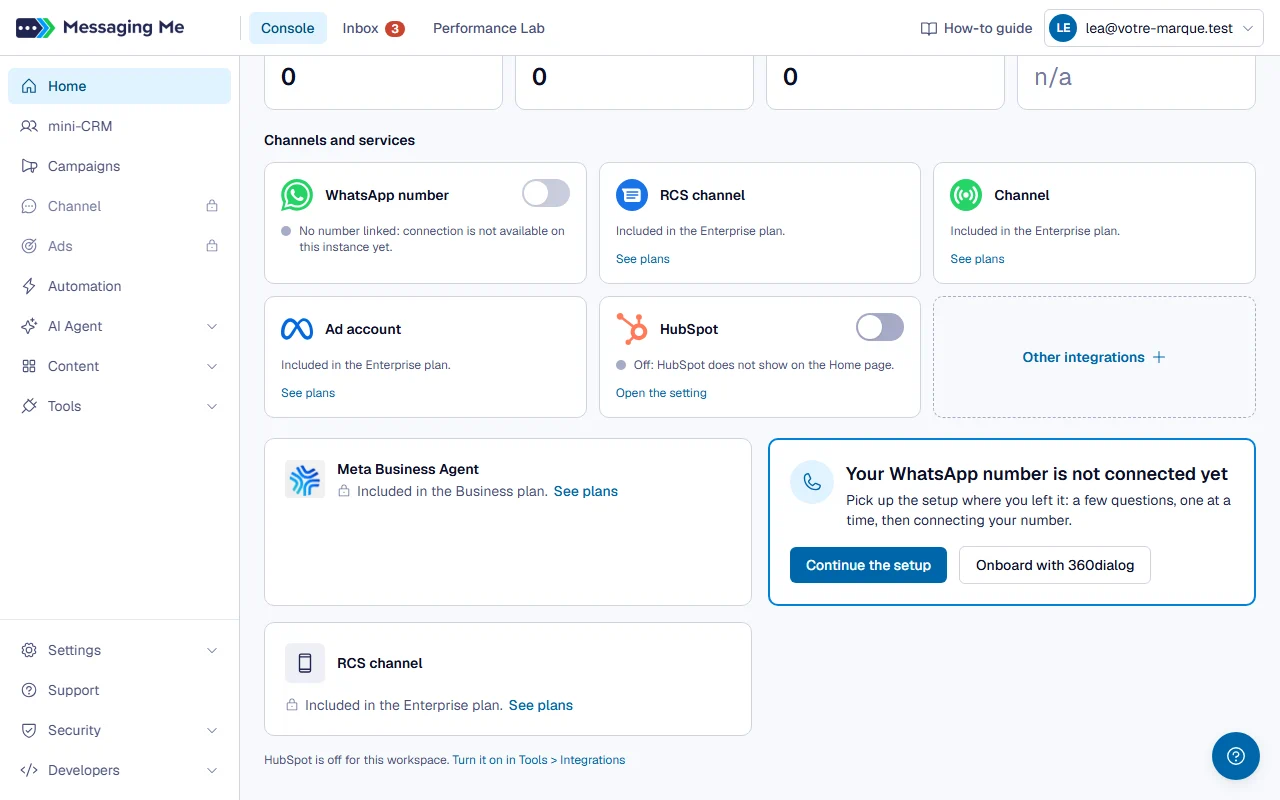
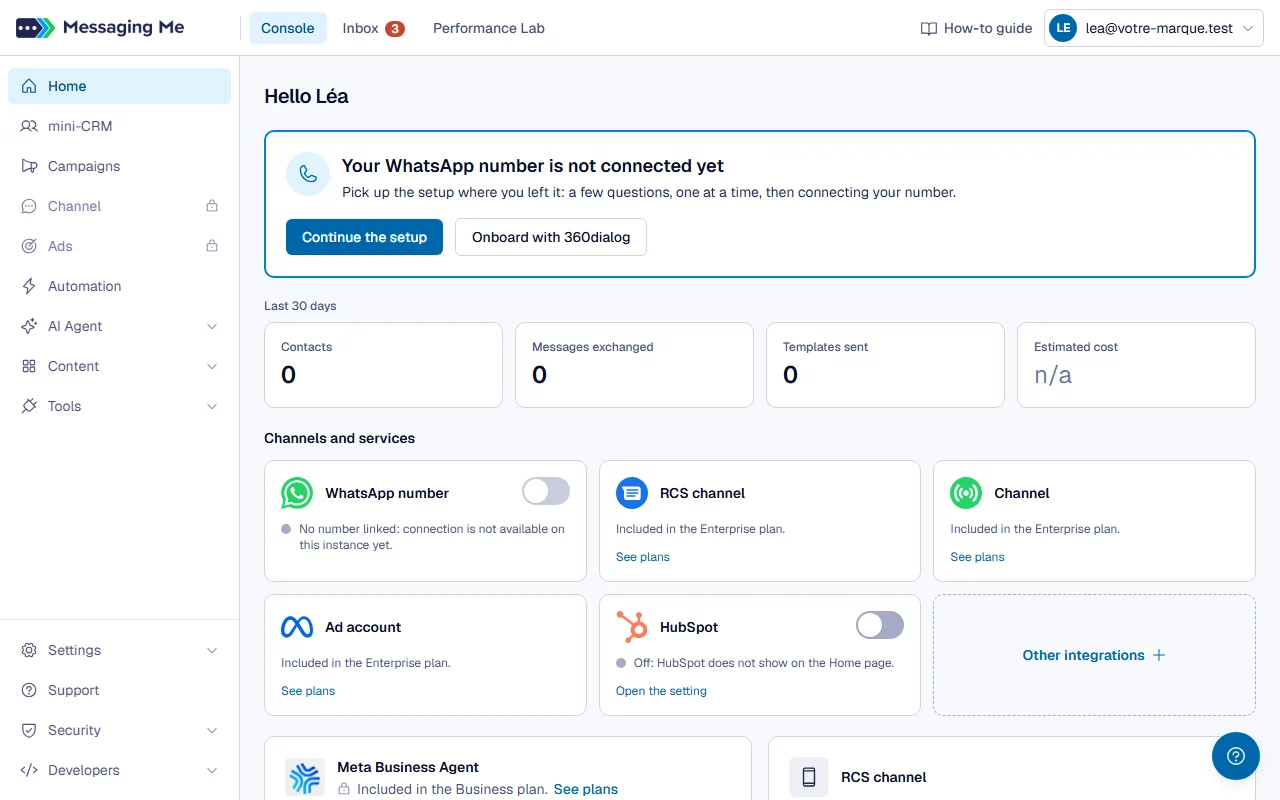
fix(accueil): sans numéro, la carte « Continuer la mise en service » passe en tête de page
Elle attendait sous Canaux et services, à la place de la carte du numéro : elle vient
juste sous le titre, avant les chiffres et les canaux, avec les avis de déconnexion et
les avertissements de connexion qui l'accompagnent. La capture de l'étape 1 du numéro
fourni (voie console) est recadrée sur elle.

diff --git a/web/app/accueil/page.tsx b/web/app/accueil/page.tsx
@@ -562,6 +562,39 @@ function AccueilInner({ session }: { session: Session }) {
 
       {error && <p className="rounded-controle bg-danger-50 px-3 py-2 text-sm text-danger-700">{error}</p>}
 
+      {/* SANS NUMÉRO, LA MISE EN SERVICE EN TÊTE (Julien, 2026-11-17) : la carte qui la reprend passe avant tout le
+          reste, au lieu d'attendre sous Canaux et services. Seulement une fois le compte lu ET sans numéro (l'invariant
+          de la cascade du numéro, plus bas). */}
+      {!accountLoading && !accountError && account && !account.hasNumber && (
+        <div data-testid="accueil-sans-numero">
+          {numeroDeconnecte && (
+            <p data-testid="numero-deconnecte" className="mb-3 rounded-controle bg-succes-50 px-3 py-2 text-xs text-succes-700">
+              {t(
+                `Numéro déconnecté : ${numeroDeconnecte.conversations} conversation(s) effacée(s), ${numeroDeconnecte.campagnesArretees} campagne(s) arrêtée(s). L’espace peut connecter un autre numéro.`,
+                `Number disconnected: ${numeroDeconnecte.conversations} conversation(s) erased, ${numeroDeconnecte.campagnesArretees} campaign(s) stopped. The workspace can connect another number.`,
+              )}
+            </p>
+          )}
+          {numeroDeconnecte && numeroDeconnecte.echecsMeta > 0 && (
+            <p data-testid="numero-deconnecte-meta" className="mb-3 rounded-controle bg-alerte-50 px-3 py-2 text-xs text-alerte-700">
+              {t(
+                'Meta n’a pas tout accepté : l’agent de Meta peut encore répondre sur ce numéro, ou Messaging Me rester abonné à votre compte. Notre équipe est prévenue et termine chez Meta ; vous pouvez aussi retirer l’app dans le Business Manager de Meta.',
+                'Meta did not accept everything: Meta’s agent may still answer on this number, or Messaging Me may stay subscribed to your account. Our team is notified and will finish at Meta; you can also remove the app in Meta’s Business Manager.',
+              )}
+            </p>
+          )}
+          <ReprendreMiseEnService isAdmin={isAdmin} tenantId={session.tenantId} onConnecte360={recharger360} />
+          {/* 🔴 Le compte peut revenir de la fenêtre Meta SANS numéro (lot 3b) : l'espace n'a toujours pas de
+              numéro, donc c'est cette branche qui s'affiche, et l'avertissement qui dit quoi faire doit y être.
+              Sans lui, la fenêtre se fermait sans un mot. Titre neutre : rien n'est « connecté ». */}
+          {avertissementsConnexion.length > 0 && (
+            <div data-testid="avertissements-connexion" className="mt-3 rounded-controle bg-alerte-50 px-3 py-2 text-xs text-alerte-700">
+              {t('À savoir', 'Note')} : {avertissementsConnexion.join(' · ')}
+            </div>
+          )}
+        </div>
+      )}
+
       {/* Rangée de KPIs (30 derniers jours) : mêmes chiffres que la page Analytics. Pas en Free : elle n'a pas de statistiques. */}
       {consoleOuverte && (
       <div>
@@ -691,33 +724,8 @@ function AccueilInner({ session }: { session: Session }) {
               </Bouton>
             </div>
           ) : account && !account.hasNumber ? (
-            <>
-              {numeroDeconnecte && (
-                <p data-testid="numero-deconnecte" className="mb-3 rounded-controle bg-succes-50 px-3 py-2 text-xs text-succes-700">
-                  {t(
-                    `Numéro déconnecté : ${numeroDeconnecte.conversations} conversation(s) effacée(s), ${numeroDeconnecte.campagnesArretees} campagne(s) arrêtée(s). L’espace peut connecter un autre numéro.`,
-                    `Number disconnected: ${numeroDeconnecte.conversations} conversation(s) erased, ${numeroDeconnecte.campagnesArretees} campaign(s) stopped. The workspace can connect another number.`,
-                  )}
-                </p>
-              )}
-              {numeroDeconnecte && numeroDeconnecte.echecsMeta > 0 && (
-                <p data-testid="numero-deconnecte-meta" className="mb-3 rounded-controle bg-alerte-50 px-3 py-2 text-xs text-alerte-700">
-                  {t(
-                    'Meta n’a pas tout accepté : l’agent de Meta peut encore répondre sur ce numéro, ou Messaging Me rester abonné à votre compte. Notre équipe est prévenue et termine chez Meta ; vous pouvez aussi retirer l’app dans le Business Manager de Meta.',
-                    'Meta did not accept everything: Meta’s agent may still answer on this number, or Messaging Me may stay subscribed to your account. Our team is notified and will finish at Meta; you can also remove the app in Meta’s Business Manager.',
-                  )}
-                </p>
-              )}
-              <ReprendreMiseEnService isAdmin={isAdmin} tenantId={session.tenantId} onConnecte360={recharger360} />
-              {/* 🔴 Le compte peut revenir de la fenêtre Meta SANS numéro (lot 3b) : l'espace n'a toujours pas de
-                  numéro, donc c'est cette branche qui s'affiche, et l'avertissement qui dit quoi faire doit y être.
-                  Sans lui, la fenêtre se fermait sans un mot. Titre neutre : rien n'est « connecté ». */}
-              {avertissementsConnexion.length > 0 && (
-                <div data-testid="avertissements-connexion" className="mt-3 rounded-controle bg-alerte-50 px-3 py-2 text-xs text-alerte-700">
-                  {t('À savoir', 'Note')} : {avertissementsConnexion.join(' · ')}
-                </div>
-              )}
-            </>
+            // Sans numéro, la carte de la mise en service est en tête de page (`accueil-sans-numero`).
+            null
           ) : (
             <div data-testid="numero-card" className="rounded-carte border border-ink-200 bg-white p-5">
               <div className="mb-3 flex items-center justify-between">

diff --git a/site/aide/numero-fourni-par-messaging-me/index.html b/site/aide/numero-fourni-par-messaging-me/index.html
@@ -361,7 +361,7 @@
         <figcaption>Vidéo de 2 min 59, sous-titrée, sans son.</figcaption>
       </figure>
       <div class="aide-etape" id="etape-1" data-voie="claude"><div><h3>1. Lancer la mise en service</h3><p>Dans Claude Code, tapez «&nbsp;/messagingme:demarrer&nbsp;»&nbsp;: Claude fait le point sur votre espace et commence par votre numéro WhatsApp.</p></div><a class="aide-capture" href="/img/aide/numero-fourni-par-messaging-me/etape-1.webp?v=b173bdaa" title="Voir la capture en grand"><img src="/img/aide/numero-fourni-par-messaging-me/etape-1.webp?v=b173bdaa" alt="Étape 1 : Lancer la mise en service" width="1280" height="800" loading="lazy"></a></div>
-      <div class="aide-etape" id="etape-1-console" data-voie="console"><div><h3>1. Ouvrir «&nbsp;Connecter WhatsApp&nbsp;»</h3><p>Sur l'Accueil, tant qu'aucun numéro n'est rattaché, cliquez sur «&nbsp;Continuer la mise en service&nbsp;».</p></div><a class="aide-capture" href="/img/aide/numero-fourni-par-messaging-me/etape-1-console.webp?v=897e3f37" title="Voir la capture en grand"><img src="/img/aide/numero-fourni-par-messaging-me/etape-1-console.webp?v=897e3f37" alt="Étape 1 : Ouvrir « Connecter WhatsApp »" width="1280" height="800" loading="lazy"></a></div>
+      <div class="aide-etape" id="etape-1-console" data-voie="console"><div><h3>1. Ouvrir «&nbsp;Connecter WhatsApp&nbsp;»</h3><p>Sur l'Accueil, tant qu'aucun numéro n'est rattaché, cliquez sur «&nbsp;Continuer la mise en service&nbsp;».</p></div><a class="aide-capture" href="/img/aide/numero-fourni-par-messaging-me/etape-1-console.webp?v=a2fd3621" title="Voir la capture en grand"><img src="/img/aide/numero-fourni-par-messaging-me/etape-1-console.webp?v=a2fd3621" alt="Étape 1 : Ouvrir « Connecter WhatsApp »" width="1280" height="800" loading="lazy"></a></div>
       <div class="aide-etape" id="etape-2" data-voie="claude"><div><h3>2. Répondre aux questions de Claude</h3><p>Pas de compte Meta Business, pas d'application WhatsApp Business, pas de numéro&nbsp;: Claude vous propose un numéro fourni.</p><details class="aide-detail"><summary>En détail</summary><p>La vidéo reste sur la formule Free&nbsp;: Meta facture vos modèles sur une carte, que vous ajouterez une fois le numéro relié. Avec l'application WhatsApp Business pour un autre numéro, répondez «&nbsp;Non&nbsp;» à «&nbsp;Voulez-vous utiliser ce numéro-là&nbsp;?&nbsp;»&nbsp;: vous arrivez au même numéro fourni.</p></details></div><a class="aide-capture" href="/img/aide/numero-fourni-par-messaging-me/etape-2.webp?v=b53704c9" title="Voir la capture en grand"><img src="/img/aide/numero-fourni-par-messaging-me/etape-2.webp?v=b53704c9" alt="Étape 2 : Répondre aux questions de Claude" width="1280" height="800" loading="lazy"></a></div>
       <div class="aide-etape" id="etape-2-console" data-voie="console"><div><h3>2. Choisir «&nbsp;Fournissez-moi un numéro&nbsp;»</h3><p>Répondez aux questions de la page, puis choisissez «&nbsp;Fournissez-moi un numéro&nbsp;»&nbsp;: un numéro dédié, prêt pour WhatsApp.</p></div><a class="aide-capture" href="/img/aide/numero-fourni-par-messaging-me/etape-2-console.webp?v=1291fe47" title="Voir la capture en grand"><img src="/img/aide/numero-fourni-par-messaging-me/etape-2-console.webp?v=1291fe47" alt="Étape 2 : Choisir « Fournissez-moi un numéro »" width="1280" height="800" loading="lazy"></a></div>
       <div class="aide-etape" id="etape-3"><div><h3>3. Payer le numéro, puis ouvrir la fenêtre de Meta</h3><p>Sur la page «&nbsp;Connecter WhatsApp&nbsp;», payez 3,50 € par mois (en formule Pro, «&nbsp;Obtenir mon numéro&nbsp;», sans rien payer)&nbsp;: votre numéro britannique s'affiche. Cliquez sur «&nbsp;Ouvrir la fenêtre de Meta&nbsp;».</p><details class="aide-detail"><summary>En détail</summary><p>Gardez la page ouverte jusqu'au bout&nbsp;: le code de vérification s'y affichera. Depuis Claude Code, Claude vous donne le lien de cette page&nbsp;; il vaut une heure, et passé ce délai Claude en donne un neuf.</p></details></div><a class="aide-capture" href="/img/aide/numero-fourni-par-messaging-me/etape-3.webp?v=e374f0e5" title="Voir la capture en grand"><img src="/img/aide/numero-fourni-par-messaging-me/etape-3.webp?v=e374f0e5" alt="Étape 3 : Payer le numéro, puis ouvrir la fenêtre de Meta" width="1280" height="800" loading="lazy"></a></div>

diff --git a/site/en/help/get-a-number-provided-by-messaging-me/index.html b/site/en/help/get-a-number-provided-by-messaging-me/index.html
@@ -361,7 +361,7 @@
         <figcaption>2 min 59 video, subtitled, no sound.</figcaption>
       </figure>
       <div class="aide-etape" id="etape-1" data-voie="claude"><div><h3>1. Start the setup</h3><p>In Claude Code, type “/messagingme:demarrer”: Claude checks your workspace and starts with your WhatsApp number.</p></div><a class="aide-capture" href="/img/aide/numero-fourni-par-messaging-me/etape-1-en.webp?v=b173bdaa" title="View the screenshot full size"><img src="/img/aide/numero-fourni-par-messaging-me/etape-1-en.webp?v=b173bdaa" alt="Step 1: Start the setup" width="1280" height="800" loading="lazy"></a></div>
-      <div class="aide-etape" id="etape-1-console" data-voie="console"><div><h3>1. Open “Connect WhatsApp”</h3><p>On the Home screen, as long as no number is attached, click “Continue the setup”.</p></div><a class="aide-capture" href="/img/aide/numero-fourni-par-messaging-me/etape-1-console-en.webp?v=1370a836" title="View the screenshot full size"><img src="/img/aide/numero-fourni-par-messaging-me/etape-1-console-en.webp?v=1370a836" alt="Step 1: Open “Connect WhatsApp”" width="1280" height="800" loading="lazy"></a></div>
+      <div class="aide-etape" id="etape-1-console" data-voie="console"><div><h3>1. Open “Connect WhatsApp”</h3><p>On the Home screen, as long as no number is attached, click “Continue the setup”.</p></div><a class="aide-capture" href="/img/aide/numero-fourni-par-messaging-me/etape-1-console-en.webp?v=53a9e874" title="View the screenshot full size"><img src="/img/aide/numero-fourni-par-messaging-me/etape-1-console-en.webp?v=53a9e874" alt="Step 1: Open “Connect WhatsApp”" width="1280" height="800" loading="lazy"></a></div>
       <div class="aide-etape" id="etape-2" data-voie="claude"><div><h3>2. Answer Claude’s questions</h3><p>No Meta Business account, no WhatsApp Business app, no number: Claude offers you a provided number.</p><details class="aide-detail"><summary>In detail</summary><p>The video stays on the Free plan: Meta bills your templates to a card, which you add once the number is connected. With the WhatsApp Business app for another number, answer “No” to “Do you want to use that number?”: you reach the same provided number.</p></details></div><a class="aide-capture" href="/img/aide/numero-fourni-par-messaging-me/etape-2-en.webp?v=b53704c9" title="View the screenshot full size"><img src="/img/aide/numero-fourni-par-messaging-me/etape-2-en.webp?v=b53704c9" alt="Step 2: Answer Claude’s questions" width="1280" height="800" loading="lazy"></a></div>
       <div class="aide-etape" id="etape-2-console" data-voie="console"><div><h3>2. Choose “Provide me a number”</h3><p>Answer the page’s questions, then choose “Provide me a number”: a dedicated number, ready for WhatsApp.</p></div><a class="aide-capture" href="/img/aide/numero-fourni-par-messaging-me/etape-2-console-en.webp?v=11f43bd2" title="View the screenshot full size"><img src="/img/aide/numero-fourni-par-messaging-me/etape-2-console-en.webp?v=11f43bd2" alt="Step 2: Choose “Provide me a number”" width="1280" height="800" loading="lazy"></a></div>
       <div class="aide-etape" id="etape-3"><div><h3>3. Pay for the number, then open Meta’s window</h3><p>On the “Connect WhatsApp” page, pay €3.50 a month (with the Pro plan, “Get my number”, with nothing to pay): your UK number appears. Click “Open the Meta window”.</p><details class="aide-detail"><summary>In detail</summary><p>Keep the page open until the end: the verification code will show there. From Claude Code, Claude gives you the link to this page; it is valid for one hour, and once it has passed Claude gives a new one.</p></details></div><a class="aide-capture" href="/img/aide/numero-fourni-par-messaging-me/etape-3-en.webp?v=e374f0e5" title="View the screenshot full size"><img src="/img/aide/numero-fourni-par-messaging-me/etape-3-en.webp?v=e374f0e5" alt="Step 3: Pay for the number, then open Meta’s window" width="1280" height="800" loading="lazy"></a></div>

diff --git a/web/e2e/captures/parcours-console.capture.ts b/web/e2e/captures/parcours-console.capture.ts
@@ -26,7 +26,7 @@ for (const locale of ['fr', 'en'] as Locale[]) {
       // 1. « Continuer la mise en service », la seule carte de l'Accueil sans numéro (2026-11-17).
       const lien = page.getByTestId('continuer-mise-en-service');
       await expect(lien).toBeVisible();
-      await capturer(page, FOURNI, '1-console', locale, lien, 'haut', lien);
+      await capturer(page, FOURNI, '1-console', locale, page.getByTestId('reprendre-mise-en-service'), 'haut', lien);
     });
 
     test(`console (${locale}) : la page Connecter WhatsApp`, async ({ page }) => {

diff --git a/features.md b/features.md
@@ -2687,8 +2687,8 @@ scénario, comment importer des contacts.
   WhatsApp Business reste sur la carte chez Meta : la ligne de crédit n'est pas possible avec l'application. La carte
   suit l'état de l'espace (à prendre, payée et en attente de sa ligne, active, arrêtée) ; Claude lit le même état
   (`get_setup_state`).
-- ✅ **Onboarding « Connecter mon compte WhatsApp » (Embedded Signup)** : un espace **sans numéro rattaché** voit sur
-  l'Accueil une seule carte, **« Continuer la mise en service »** (2026-11-17 ; l'interrupteur « Numéro WhatsApp » de
+- ✅ **Onboarding « Connecter mon compte WhatsApp » (Embedded Signup)** : un espace **sans numéro rattaché** voit en tête
+  de l'Accueil une seule carte, **« Continuer la mise en service »** (2026-11-17 ; l'interrupteur « Numéro WhatsApp » de
   Canaux et services y mène aussi), vers le tunnel de « Connecter WhatsApp » : la formule (faite), la question du
   paiement des messages Meta (rien de choisi d'avance ; la carte chez Meta choisie, la ligne de crédit passe en retrait
   et la page dit que la carte peut se poser après la connexion), puis les questions du numéro, une à la fois, jusqu'au

diff --git a/docs/aide/fiches/connecter-mon-numero-whatsapp.md b/docs/aide/fiches/connecter-mon-numero-whatsapp.md
@@ -2,7 +2,7 @@
 description: Connecter son numéro WhatsApp étape par étape : la formule, payer vos messages Meta, votre numéro ou le nôtre, la fenêtre de Meta, puis l'état du numéro.
 ecran: accueil
 source_section: Accueil (1re entrée du menu)
-source_empreinte: 480a5d
+source_empreinte: 30589d
 publique: oui
 rubrique: demarrer-console
 rang: 3

diff --git a/docs/aide/fiches/numero-fourni-par-messaging-me.md b/docs/aide/fiches/numero-fourni-par-messaging-me.md
@@ -1,7 +1,7 @@
 ---
 description: Prendre un numéro fourni par Messaging Me et le relier à WhatsApp par la fenêtre de Meta, depuis Claude Code : la vidéo, puis les six étapes.
 source_section: Accueil (1re entrée du menu)
-source_empreinte: 480a5d
+source_empreinte: 30589d
 publique: oui
 rubrique: demarrer-claude, demarrer-console
 rang: 5, 5

diff --git a/docs/aide/fiches/integrer-whatsapp-a-hubspot.md b/docs/aide/fiches/integrer-whatsapp-a-hubspot.md
@@ -3,7 +3,7 @@ description: WhatsApp dans HubSpot : chaque conversation analysée devient une a
 ecran: integrations
 ancre_console: integration-hubspot
 source_section: Accueil (1re entrée du menu)
-source_empreinte: 480a5d
+source_empreinte: 30589d
 publique: oui
 rubrique: demarrer-console
 rang: 7

diff --git a/docs/aide/fiches/abonnement-du-numero-fourni.md b/docs/aide/fiches/abonnement-du-numero-fourni.md
@@ -1,7 +1,7 @@
 ---
 ecran: accueil
 source_section: Accueil (1re entrée du menu)
-source_empreinte: 480a5d
+source_empreinte: 30589d
 ---
 # L'abonnement du numéro fourni : coupure, réabonnement, restitution
 

diff --git a/docs/aide/fiches/canaux-et-services.md b/docs/aide/fiches/canaux-et-services.md
@@ -1,7 +1,7 @@
 ---
 ecran: accueil
 source_section: Accueil (1re entrée du menu)
-source_empreinte: 480a5d
+source_empreinte: 30589d
 ---
 # Les canaux et services de l'espace : allumer, éteindre, délier
 

diff --git a/docs/aide/fiches/renouveler-ou-deconnecter-le-numero.md b/docs/aide/fiches/renouveler-ou-deconnecter-le-numero.md
@@ -1,7 +1,7 @@
 ---
 ecran: accueil
 source_section: Accueil (1re entrée du menu)
-source_empreinte: 480a5d
+source_empreinte: 30589d
 ---
 # Renouveler la connexion Meta, ou déconnecter le numéro
 
